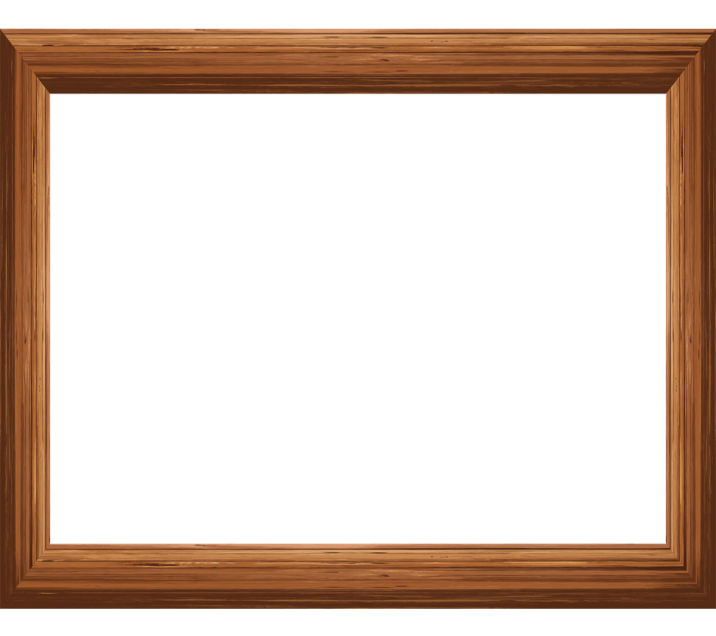
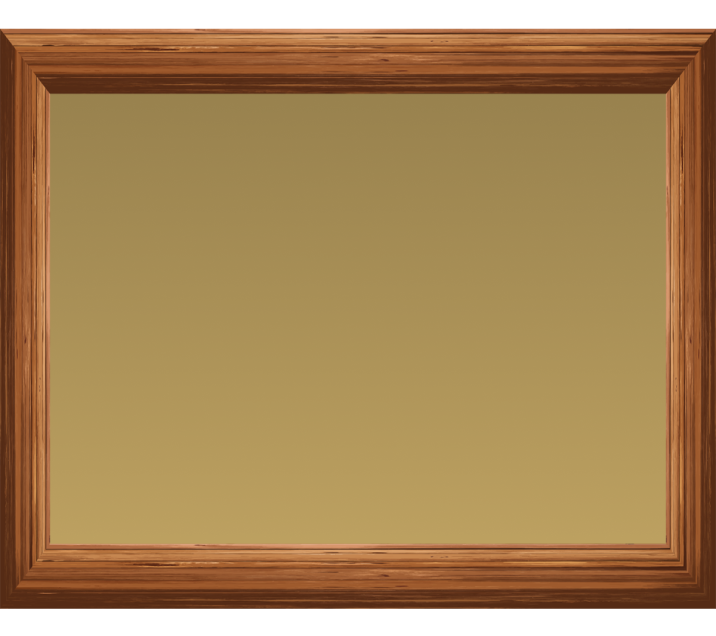
Navigation completed

diff --git a/src/components/Display/Navigation.vue b/src/components/Display/Navigation.vue
@@ -1,0 +1,137 @@
+<template>
+  <div class="background">
+    <div class="nav">
+      <div
+        class="nav nav-select job-list"
+        v-bind:class="{ selected: state.jobList }"
+        @click="selectJobList()"
+      >
+      <i class="fa fa-book">
+        Job list
+      </i>
+      </div>
+      <div
+        class="nav nav-select my-tasks"
+        v-bind:class="{ selected: state.myTasks }"
+        @click="selectMyTasks()"
+      >
+      <i class="fa fa-address-card">
+      My Tasks
+      </i>
+      </div>
+      <div
+        class="nav nav-select job-history"
+        v-bind:class="{ selected: state.jobHistory }"
+        @click="selectJobHistory()"
+      >
+      <i class="fa fa-history">
+      Job History
+      </i>
+      </div>
+    </div>
+  </div>
+</template>
+
+<script>
+import { defineComponent, reactive } from 'vue';
+
+export default defineComponent({
+  setup() {
+    const state = reactive({
+      jobList: true,
+      myTasks: false,
+      jobHistory: false,
+    });
+
+    function selectJobList() {
+      state.jobList = true;
+      state.myTasks = false;
+      state.jobHistory = false;
+    }
+    function selectMyTasks() {
+      state.jobList = false;
+      state.myTasks = true;
+      state.jobHistory = false;
+    }
+    function selectJobHistory() {
+      state.jobList = false;
+      state.myTasks = false;
+      state.jobHistory = true;
+    }
+
+    return {
+      state,
+      selectJobList,
+      selectMyTasks,
+      selectJobHistory,
+    };
+  },
+});
+</script>
+
+<style scoped lang="scss">
+.background {
+  background: url('../../assets/navigation-frame.webp');
+  width: 18.646vw;
+  height: 16.563vw;
+  left: 6.823vw;
+  top: 35vw;
+  position: absolute;
+  overflow: auto;
+  background-size: cover;
+  background-repeat: no-repeat;
+}
+.nav {
+  left: 1.5vw;
+  top: 2.5vw;
+  position:relative;
+
+  &.nav-select {
+    width: 12vw;
+    height: 2vw;
+    font-family: Roboto;
+    font-style: normal;
+    font-weight: 500;
+    font-size: 1.5vw;
+    line-height: 2vw;
+    text-align: left;
+    padding-left: 0.5vw;
+    color: black;
+    cursor: pointer;
+
+    &.job-list {
+    transform: translateY(-50%);
+      &.selected {
+      font-weight: 600;
+      background: #FDF1E3;
+      color: #6C421B;
+      border-radius: 4px;
+      }
+    }
+
+    &.my-tasks{
+      &.selected{
+        font-weight: 600;
+        background: #FDF1E3;
+        color: #6C421B;
+        border-radius: 4px;
+      }
+    }
+
+    &.job-history{
+      transform: translateY(50%);
+      &.selected{
+        font-weight: 600;
+        background: #FDF1E3;
+        color: #6C421B;
+        border-radius: 4px;
+      }
+    }
+  }
+  &.nav-select:hover {
+    background: rgba(253, 241, 227, 0.6);
+    border-radius:4px;
+  }
+}
+
+</style>

diff --git a/src/views/DeGuild.vue b/src/views/DeGuild.vue
@@ -6,6 +6,7 @@
 
     <job-dashboard></job-dashboard>
     <profile />
+    <navigation></navigation>
 
     <div v-if="wallet === true"></div>
     <div v-if="wallet !== true">
@@ -27,6 +28,7 @@ import ApproveModal from '../components/General/Approve.vue';
 import DialogueBox from '../components/General/DialogueBox.vue';
 import JobDashboard from '../components/Display/JobDashboard.vue';
 import Profile from '../components/Buttons/Profile.vue';
+import Navigation from '../components/Display/Navigation.vue';
 // @ is an alias to /src
 
 export default {
@@ -40,6 +42,7 @@ export default {
     DialogueBox,
     JobDashboard,
     Profile,
+    Navigation,
   },
   setup() {
     const store = useStore();

diff --git a/src/components/Display/JobDashboard.vue b/src/components/Display/JobDashboard.vue
@@ -219,6 +219,9 @@ export default defineComponent({
       }
     }
   }
+  &.button:hover {
+    background: rgba(108, 66, 27, 0.4);
+  }
 }
 .half-circle-spinner {
   box-sizing: border-box;
